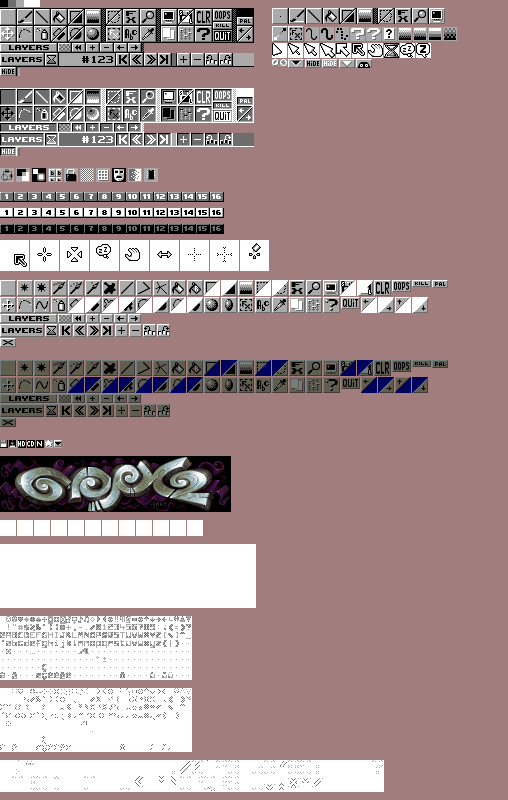
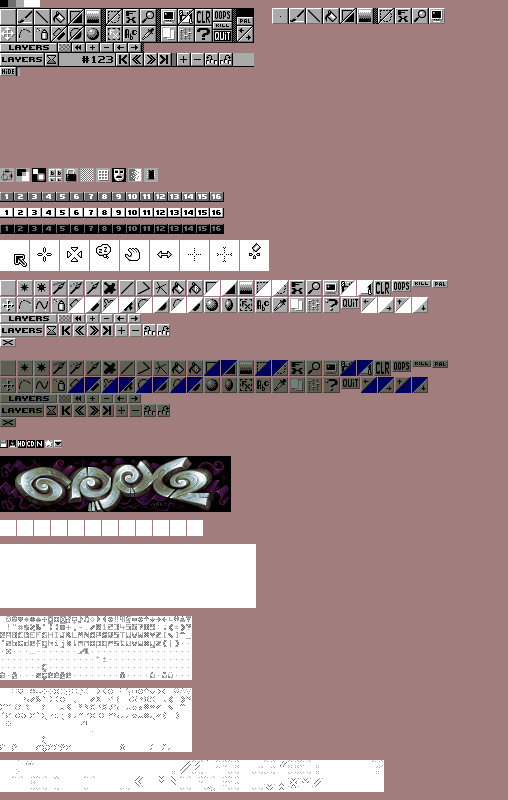
More work on skin parsing
git-svn-id: svn://pulkomandy.tk/GrafX2/branches/sdl2@2155 416bcca6-2ee7-4201-b75f-2eb2f807beb1

Changed region(s): [[0.0, 0.0938, 0.502, 0.2188], [0.5315, 0.0312, 0.9154, 0.0938]]

diff --git a/src/init.c b/src/init.c
@@ -327,7 +327,7 @@ byte Parse_skin(SDL_Surface * gui, T_Gui_skin *gfx)
   // Menu
   if (GUI_seek_down(gui, &cursor_x, &cursor_y, neutral_color, "menu"))
     return 1;
-  if (Read_GUI_block(gfx, gui, cursor_x, cursor_y, gfx->Menu_block[0], Menu_bars[MENUBAR_TOOLS].Skin_width, Menu_bars[MENUBAR_TOOLS].Height,"menu",0))
+  if (Read_GUI_block(gfx, gui, cursor_x, cursor_y, gfx->Menu_block, Menu_bars[MENUBAR_TOOLS].Skin_width, Menu_bars[MENUBAR_TOOLS].Height,"menu",0))
     return 1;
 
   // Preview
@@ -341,49 +341,21 @@ byte Parse_skin(SDL_Surface * gui, T_Gui_skin *gfx)
   // Layerbar
   if (GUI_seek_down(gui, &cursor_x, &cursor_y, neutral_color, "layer bar"))
     return 1;
-  if (Read_GUI_block(gfx, gui, cursor_x, cursor_y, gfx->Layerbar_block[0], 144, 10,"layer bar",0))
+  if (Read_GUI_block(gfx, gui, cursor_x, cursor_y, gfx->Layerbar_block, 144, 10,"layer bar",0))
     return 1;
   cursor_y+= Menu_bars[MENUBAR_LAYERS].Height;
 
   // Animbar
   if (GUI_seek_down(gui, &cursor_x, &cursor_y, neutral_color, "anim bar"))
     return 1;
-  if (Read_GUI_block(gfx, gui, cursor_x, cursor_y, gfx->Animbar_block[0], 236, 14,"anim bar",0))
+  if (Read_GUI_block(gfx, gui, cursor_x, cursor_y, gfx->Animbar_block, 236, 14,"anim bar",0))
     return 1;
   cursor_y+= Menu_bars[MENUBAR_ANIMATION].Height;
 
   // Status bar
   if (GUI_seek_down(gui, &cursor_x, &cursor_y, neutral_color, "status bar"))
     return 1;
-  if (Read_GUI_block(gfx, gui, cursor_x, cursor_y, gfx->Statusbar_block[0], Menu_bars[MENUBAR_STATUS].Skin_width, Menu_bars[MENUBAR_STATUS].Height,"status bar",0))
-    return 1;
-  cursor_y+= Menu_bars[MENUBAR_STATUS].Height;
-
-  // Menu (selected)
-  if (GUI_seek_down(gui, &cursor_x, &cursor_y, neutral_color, "selected menu"))
-    return 1;
-  if (Read_GUI_block(gfx, gui, cursor_x, cursor_y, gfx->Menu_block[1], Menu_bars[MENUBAR_TOOLS].Skin_width, Menu_bars[MENUBAR_TOOLS].Height,"selected menu",0))
-    return 1;
-  cursor_y+= Menu_bars[MENUBAR_TOOLS].Height;
-
-  // Layerbar (selected)
-  if (GUI_seek_down(gui, &cursor_x, &cursor_y, neutral_color, "selected layer bar"))
-    return 1;
-  if (Read_GUI_block(gfx, gui, cursor_x, cursor_y, gfx->Layerbar_block[1], 144, 10,"selected layer bar",0))
-    return 1;
-  cursor_y+= Menu_bars[MENUBAR_LAYERS].Height;
-
-  // Animbar (selected)
-  if (GUI_seek_down(gui, &cursor_x, &cursor_y, neutral_color, "selected anim bar"))
-    return 1;
-  if (Read_GUI_block(gfx, gui, cursor_x, cursor_y, gfx->Animbar_block[1], 236, 14,"selected anim bar",0))
-    return 1;
-  cursor_y+= Menu_bars[MENUBAR_ANIMATION].Height;
-
-  // Status bar (selected)
-  if (GUI_seek_down(gui, &cursor_x, &cursor_y, neutral_color, "selected status bar"))
-    return 1;
-  if (Read_GUI_block(gfx, gui, cursor_x, cursor_y, gfx->Statusbar_block[1], Menu_bars[MENUBAR_STATUS].Skin_width, Menu_bars[MENUBAR_STATUS].Height,"selected status bar",0))
+  if (Read_GUI_block(gfx, gui, cursor_x, cursor_y, gfx->Statusbar_block, Menu_bars[MENUBAR_STATUS].Skin_width, Menu_bars[MENUBAR_STATUS].Height,"status bar",0))
     return 1;
   cursor_y+= Menu_bars[MENUBAR_STATUS].Height;
 
@@ -2857,8 +2829,6 @@ void Init_brush_container(void)
 
 void Set_current_skin(const char *skinfile, T_Gui_skin *gfx)
 {
-  int i;
-
   // Free previous one
   Destroy_graphics(Gfx);
 
@@ -2885,13 +2855,11 @@ void Set_current_skin(const char *skinfile, T_Gui_skin *gfx)
   MC_Trans = gfx->Color_trans;
 
   // Set menubars to point to the new data
-  for (i=0; i<2; i++)
-  {
-    Menu_bars[MENUBAR_TOOLS ].Skin[i] = (byte*)&(gfx->Menu_block[i]);
-    Menu_bars[MENUBAR_LAYERS].Skin[i] = (byte*)&(gfx->Layerbar_block[i]);
-    Menu_bars[MENUBAR_ANIMATION].Skin[i] = (byte*)&(gfx->Animbar_block[i]);
-    Menu_bars[MENUBAR_STATUS].Skin[i] = (byte*)&(gfx->Statusbar_block[i]);
-  }
+  Menu_bars[MENUBAR_TOOLS ].Skin = (byte*)&(gfx->Menu_block);
+  Menu_bars[MENUBAR_LAYERS].Skin = (byte*)&(gfx->Layerbar_block);
+  Menu_bars[MENUBAR_ANIMATION].Skin = (byte*)&(gfx->Animbar_block);
+  Menu_bars[MENUBAR_STATUS].Skin = (byte*)&(gfx->Statusbar_block);
+
 }
 
 void Init_paintbrush(int index, int width, int height, byte shape, const char * bitmap)

diff --git a/src/struct.h b/src/struct.h
@@ -170,7 +170,7 @@ typedef struct T_Fileselector_item
 
   struct T_Fileselector_item * Next;    ///< Pointer to next item of the current fileselector.
   struct T_Fileselector_item * Previous;///< Pointer to previous item of the current fileselector.
-  
+
   word  Length_short_name; ///< Number of bytes allocated for :Short_name
   #if __GNUC__ < 3
   char Short_name[0]; ///< Name to display.
@@ -205,7 +205,7 @@ typedef struct T_List_button
 
   T_Special_button  * Entry_button; ///< Pointer to the associated selection control.
   T_Scroller_button * Scroller;     ///< Pointer to the associated scroller
-  
+
   Func_draw_list_item   Draw_list_item; ///< Function to call for each item to draw its line
   byte                  Color_index;    ///< Background color: From 0->MC_Black to 3->MC_White
 
@@ -280,7 +280,7 @@ typedef struct
 {
   byte State; ///< How good is the mode supported. 0:Good (white) 1:OK (light) 2:So-so (dark) 4:User-disabled (black); +128 => System doesn't support it at all.
   word Width; ///< Videomode width in pixels.
-  word Height;///< Videomode height in pixels. 
+  word Height;///< Videomode height in pixels.
 } T_Config_video_mode;
 
 /// Header for gfx2.cfg
@@ -437,7 +437,7 @@ typedef struct
 typedef struct
 {
   byte Paintbrush_shape; ///< Kind of brush
-  byte Thumbnail[BRUSH_CONTAINER_PREVIEW_WIDTH][BRUSH_CONTAINER_PREVIEW_HEIGHT]; 
+  byte Thumbnail[BRUSH_CONTAINER_PREVIEW_WIDTH][BRUSH_CONTAINER_PREVIEW_HEIGHT];
   // Data for color brush
   word Width;
   word Height;
@@ -459,17 +459,17 @@ typedef struct
   int Mouse_cursor_height[NB_CURSOR_SPRITES];
 
   // Sieve patterns
-  
+
   /// Preset sieve patterns, stored as binary (one word per line)
   word  Sieve_pattern[12][16];
-  
+
   // Menu and other graphics
-  
+
   /// Bitmap data for the menu, a single rectangle.
-  byte Menu_block[2][35][MENU_WIDTH];
-  byte Layerbar_block[2][10][144];
-  byte Animbar_block[2][14][236];
-  byte Statusbar_block[2][9][20];
+  byte Menu_block[35][MENU_WIDTH];
+  byte Layerbar_block[10][144];
+  byte Animbar_block[14][236];
+  byte Statusbar_block[9][20];
   /// Bitmap data for the icons that are displayed over the menu.
   SDL_Texture *Menu_sprite[2][NB_MENU_SPRITES];
   /// Bitmap data for the different "effects" icons.
@@ -512,7 +512,7 @@ typedef struct
 
 typedef struct {
   // Preset paintbrushes
-  
+
   /// Graphic resources for the preset paintbrushes.
   byte  Sprite[PAINTBRUSH_HEIGHT][PAINTBRUSH_WIDTH];
   /// Width of the preset paintbrushes.

diff --git a/src/sdlscreen.c b/src/sdlscreen.c
@@ -104,8 +104,8 @@ void Set_mode_SDL(int *width, int *height, int fullscreen)
   Window_SDL = SDL_CreateWindow("GrafX2",
     SDL_WINDOWPOS_UNDEFINED, SDL_WINDOWPOS_UNDEFINED,
     *width, *height * 2,
-    (fullscreen?SDL_WINDOW_FULLSCREEN:SDL_WINDOW_RESIZABLE)|SDL_WINDOW_SHOWN|SDL_WINDOW_INPUT_FOCUS|SDL_WINDOW_MOUSE_FOCUS);
-  Renderer_SDL = SDL_CreateRenderer(Window_SDL, -1, SDL_RENDERER_ACCELERATED);
+    (fullscreen?SDL_WINDOW_FULLSCREEN:SDL_WINDOW_RESIZABLE)|SDL_WINDOW_SHOWN);
+  Renderer_SDL = SDL_CreateRenderer(Window_SDL, -1, SDL_RENDERER_ACCELERATED|SDL_RENDERER_PRESENTVSYNC);
   //SDL_SetHint(SDL_HINT_RENDER_SCALE_QUALITY, "linear");
   SDL_RenderSetLogicalSize(Renderer_SDL, *width, *height * 2);
   Texture_SDL = SDL_CreateTexture(Renderer_SDL, SDL_PIXELFORMAT_ABGR8888, SDL_TEXTUREACCESS_STREAMING, *width, *height);

diff --git a/src/windows.c b/src/windows.c
@@ -502,7 +502,7 @@ void Draw_bar_remainder(word current_menu, word x_off)
   for (y_pos=0;y_pos<Menu_bars[current_menu].Height;y_pos++)
     for (x_pos=x_off;x_pos<Screen_width/Menu_factor_X;x_pos++)
     {
-      byte c = Menu_bars[current_menu].Skin[0][y_pos * Menu_bars[current_menu].Skin_width + Menu_bars[current_menu].Skin_width - 2 + (x_pos&1)];
+      byte c = Menu_bars[current_menu].Skin[y_pos * Menu_bars[current_menu].Skin_width + Menu_bars[current_menu].Skin_width - 2 + (x_pos&1)];
       Rectangle_on_texture(Menu_bars[current_menu].Menu_texture,
         x_pos*Menu_factor_X, y_pos*Menu_factor_Y,
         Menu_factor_X,Menu_factor_Y,

diff --git a/src/windows.h b/src/windows.h
@@ -152,7 +152,7 @@ typedef struct {
   word Height;
   byte Visible;
   word Top; ///< Relative to the top line of the menu, hidden bars don't count.
-  byte* Skin[2]; ///< [0] has normal buttons, [1] has selected buttons, [2] is current.
+  byte* Skin;
   SDL_Texture *Menu_texture;
   word Skin_width;
   byte Last_button_index;
